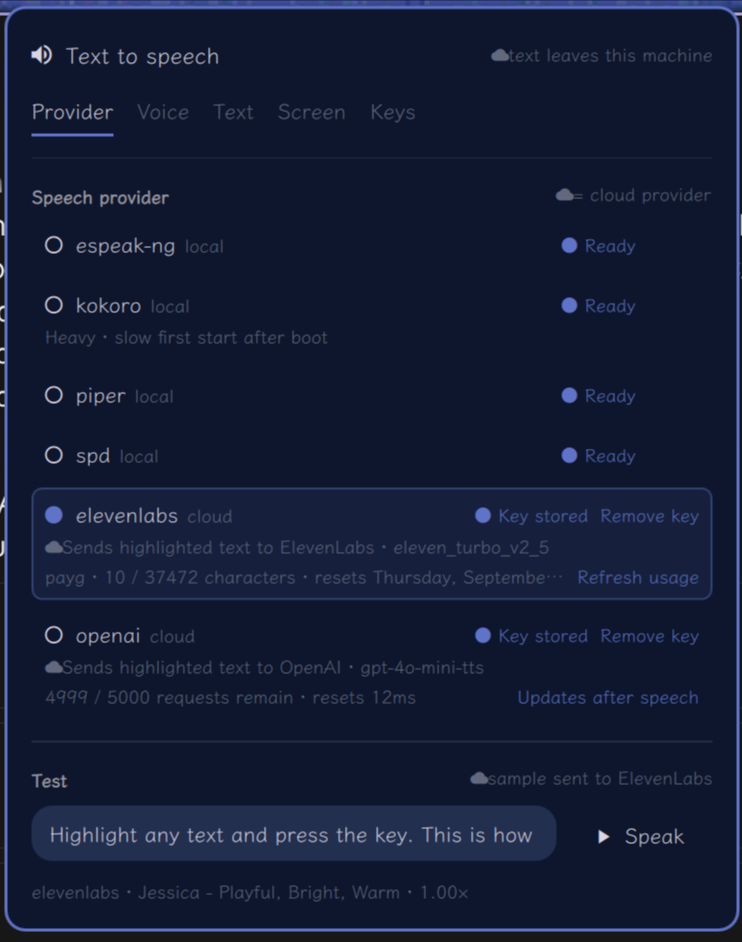
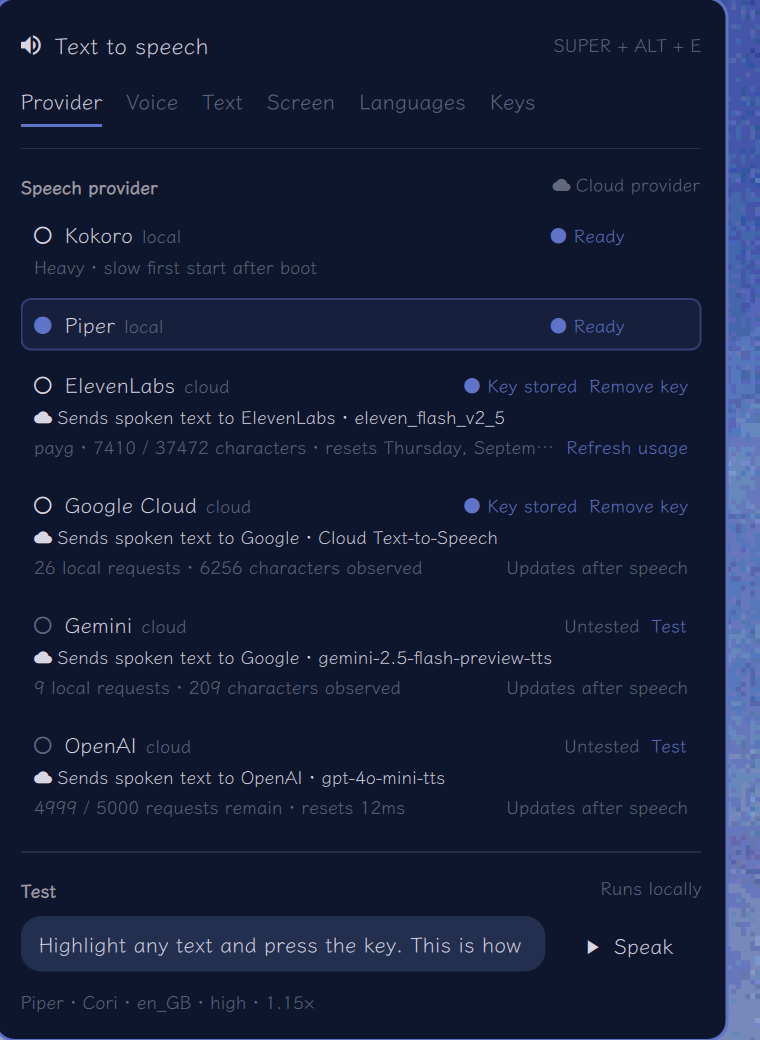
Release prep for 1.3.0: README accuracy, fresh screenshots, exit-status guard
README now says OCR is local by default rather than local, lists the
language-pack install alongside uv as the other pkexec target, documents
the verify, verify-ocr, refresh-languages and ocr-engine flags, and covers
Google alongside ElevenLabs for voice refreshes. Screenshots are retaken
from the six-tab panel, with a Languages tab shot added and preview.png
updated for the marketplace card.

The controller's exit handlers now ignore a run the controller itself
killed with restart(): a cancelled status probe reported a non-zero exit
and painted "Could not read TTS setup status" over a working install. A
static contract test keeps every handler guarded.

Claude-Session: https://claude.ai/code/session_01YTTjejXPmrYu3BYXWNWKoX

Changed region(s): [[0.0, 0.0, 1.0, 1.0], [0.279, 0.0924, 0.6199, 0.1231], [0.6509, 0.0924, 0.7129, 0.1231]]

diff --git a/components/TtsController.qml b/components/TtsController.qml
@@ -238,7 +238,11 @@ Item {
     id: infoProc; command: [root.speakBin, "--info"]
     stdout: StdioCollector { id: infoStdout; waitForEnd: true }
     stderr: StdioCollector { id: infoStderr; waitForEnd: true }
-    onExited: function(exitCode) {
+    onExited: function(exitCode, exitStatus) {
+      // A run this controller killed with restart() is not a result; the
+      // replacement run reports. Treating the kill as a failure painted
+      // "Could not read TTS setup status" over a working install.
+      if (exitStatus !== 0) return
       var queued = root.infoQueued
       root.infoQueued = false
       if (root.readEpoch !== root.writeEpoch) {
@@ -279,7 +283,11 @@ Item {
     id: verifyProc; command: []
     stdout: StdioCollector { id: verifyStdout; waitForEnd: true }
     stderr: StdioCollector { id: verifyStderr; waitForEnd: true }
-    onExited: function(exitCode) {
+    onExited: function(exitCode, exitStatus) {
+      // A run this controller killed with restart() is not a result; the
+      // replacement run reports. Treating the kill as a failure painted
+      // "Could not read TTS setup status" over a working install.
+      if (exitStatus !== 0) return
       if (exitCode !== 0) root.error = String(verifyStderr.text || verifyStdout.text || "Test failed").trim()
       root.verifying = ""; root.refresh()
     }
@@ -303,7 +311,11 @@ Item {
     id: actionProc; command: []
     stdout: StdioCollector { id: actionStdout; waitForEnd: true }
     stderr: StdioCollector { id: actionStderr; waitForEnd: true }
-    onExited: function(exitCode) {
+    onExited: function(exitCode, exitStatus) {
+      // A run this controller killed with restart() is not a result; the
+      // replacement run reports. Treating the kill as a failure painted
+      // "Could not read TTS setup status" over a working install.
+      if (exitStatus !== 0) return
       var stdout = String(actionStdout.text || "").trim()
       var stderr = String(actionStderr.text || "").trim()
       if (exitCode !== 0) root.error = stderr || stdout || "The TTS action failed."
@@ -326,7 +338,11 @@ Item {
     }
     stdout: StdioCollector { id: previewStdout; waitForEnd: true }
     stderr: StdioCollector { id: previewStderr; waitForEnd: true }
-    onExited: function(exitCode) {
+    onExited: function(exitCode, exitStatus) {
+      // A run this controller killed with restart() is not a result; the
+      // replacement run reports. Treating the kill as a failure painted
+      // "Could not read TTS setup status" over a working install.
+      if (exitStatus !== 0) return
       if (!root.previewQueued) {
         if (exitCode === 0) root.preview = String(previewStdout.text || "").trim()
         else if (exitCode === 1) root.preview = ""
@@ -342,7 +358,11 @@ Item {
     id: catalogueProc; command: [root.voiceBin, "available", "--json"]
     stdout: StdioCollector { id: catalogueStdout; waitForEnd: true }
     stderr: StdioCollector { id: catalogueStderr; waitForEnd: true }
-    onExited: function(exitCode) {
+    onExited: function(exitCode, exitStatus) {
+      // A run this controller killed with restart() is not a result; the
+      // replacement run reports. Treating the kill as a failure painted
+      // "Could not read TTS setup status" over a working install.
+      if (exitStatus !== 0) return
       if (root.catalogueQueued) {
         root.catalogueQueued = false
         Qt.callLater(root.loadCatalogue)
@@ -361,7 +381,11 @@ Item {
     id: downloadStatusProc; command: [root.voiceBin, "status"]
     stdout: StdioCollector { id: downloadStatusStdout; waitForEnd: true }
     stderr: StdioCollector { id: downloadStatusStderr; waitForEnd: true }
-    onExited: function(exitCode) {
+    onExited: function(exitCode, exitStatus) {
+      // A run this controller killed with restart() is not a result; the
+      // replacement run reports. Treating the kill as a failure painted
+      // "Could not read TTS setup status" over a working install.
+      if (exitStatus !== 0) return
       var result = null
       try { result = JSON.parse(String(downloadStatusStdout.text || "")) } catch (e) {}
       if (exitCode !== 0 || !result || typeof result.status !== "string") {
@@ -390,7 +414,11 @@ Item {
     id: downloadStartProc; command: []
     stdout: StdioCollector { id: downloadStartStdout; waitForEnd: true }
     stderr: StdioCollector { id: downloadStartStderr; waitForEnd: true }
-    onExited: function(exitCode) {
+    onExited: function(exitCode, exitStatus) {
+      // A run this controller killed with restart() is not a result; the
+      // replacement run reports. Treating the kill as a failure painted
+      // "Could not read TTS setup status" over a working install.
+      if (exitStatus !== 0) return
       root.downloadStarting = false
       var stdout = String(downloadStartStdout.text || "").trim()
       var stderr = String(downloadStartStderr.text || "").trim()
@@ -415,7 +443,11 @@ Item {
     id: bindingsProc; command: [root.bindingsBin, "status"]
     stdout: StdioCollector { id: bindingsStdout; waitForEnd: true }
     stderr: StdioCollector { id: bindingsStderr; waitForEnd: true }
-    onExited: function(exitCode) {
+    onExited: function(exitCode, exitStatus) {
+      // A run this controller killed with restart() is not a result; the
+      // replacement run reports. Treating the kill as a failure painted
+      // "Could not read TTS setup status" over a working install.
+      if (exitStatus !== 0) return
       try {
         if (exitCode !== 0) throw new Error("shortcut status failed")
         root.bindings = JSON.parse(String(bindingsStdout.text || ""))
@@ -429,7 +461,11 @@ Item {
     id: setupStatusProc; command: [root.setupBin, "status"]
     stdout: StdioCollector { id: setupStatusStdout; waitForEnd: true }
     stderr: StdioCollector { id: setupStatusStderr; waitForEnd: true }
-    onExited: function(exitCode) {
+    onExited: function(exitCode, exitStatus) {
+      // A run this controller killed with restart() is not a result; the
+      // replacement run reports. Treating the kill as a failure painted
+      // "Could not read TTS setup status" over a working install.
+      if (exitStatus !== 0) return
       var result = null
       try { result = JSON.parse(String(setupStatusStdout.text || "")) } catch (e) {}
       if (exitCode === 0 && result && result.ok === true) {
@@ -445,7 +481,11 @@ Item {
     id: setupStartProc; command: []
     stdout: StdioCollector { id: setupStartStdout; waitForEnd: true }
     stderr: StdioCollector { id: setupStartStderr; waitForEnd: true }
-    onExited: function(exitCode) {
+    onExited: function(exitCode, exitStatus) {
+      // A run this controller killed with restart() is not a result; the
+      // replacement run reports. Treating the kill as a failure painted
+      // "Could not read TTS setup status" over a working install.
+      if (exitStatus !== 0) return
       root.setupStarting = false
       var result = null
       try { result = JSON.parse(String(setupStartStdout.text || "")) } catch (e) {}
@@ -470,7 +510,11 @@ Item {
     id: setupJobProc; command: [root.setupBin, "job"]
     stdout: StdioCollector { id: setupJobStdout; waitForEnd: true }
     stderr: StdioCollector { id: setupJobStderr; waitForEnd: true }
-    onExited: function(exitCode) {
+    onExited: function(exitCode, exitStatus) {
+      // A run this controller killed with restart() is not a result; the
+      // replacement run reports. Treating the kill as a failure painted
+      // "Could not read TTS setup status" over a working install.
+      if (exitStatus !== 0) return
       var result = null
       try { result = JSON.parse(String(setupJobStdout.text || "")) } catch (e) {}
       if (exitCode !== 0 || !result || typeof result.status !== "string") {
@@ -495,7 +539,11 @@ Item {
     onStarted: { write(root.pendingKey + "\n"); root.pendingKey = "" }
     stdout: StdioCollector { id: keyStdout; waitForEnd: true }
     stderr: StdioCollector { id: keyStderr; waitForEnd: true }
-    onExited: function(exitCode) {
+    onExited: function(exitCode, exitStatus) {
+      // A run this controller killed with restart() is not a result; the
+      // replacement run reports. Treating the kill as a failure painted
+      // "Could not read TTS setup status" over a working install.
+      if (exitStatus !== 0) return
       var result = null
       try { result = JSON.parse(String(keyStdout.text || "")) } catch (e) {}
       var ok = exitCode === 0 && result && result.ok === true

diff --git a/tests/test_qml_contract.py b/tests/test_qml_contract.py
@@ -1,5 +1,6 @@
 #!/usr/bin/env python3
 """Static contracts for UI races that do not require a running compositor."""
+import re
 from pathlib import Path
 import unittest
 
@@ -126,7 +127,7 @@ class QmlContractTests(unittest.TestCase):
         start = self.controller.index("id: setupStatusProc")
         block = self.controller[start:self.controller.index("id: setupStartProc", start)]
         self.assertIn("id: setupStatusStderr", block)
-        self.assertIn("onExited: function(exitCode)", block)
+        self.assertIn("onExited: function(exitCode, exitStatus)", block)
         self.assertIn("exitCode === 0 && result && result.ok === true", block)
         self.assertNotIn("onStreamFinished", block)
 
@@ -152,7 +153,7 @@ class QmlContractTests(unittest.TestCase):
         start = self.controller.index("id: infoProc")
         block = self.controller[start:self.controller.index("id: speechProc", start)]
         self.assertIn("id: infoStderr", block)
-        self.assertIn("onExited: function(exitCode)", block)
+        self.assertIn("onExited: function(exitCode, exitStatus)", block)
         self.assertNotIn("root.infoQueued = true", block)
 
     def test_cloud_backend_operations_are_not_killed_and_restarted(self):
@@ -176,5 +177,19 @@ class QmlContractTests(unittest.TestCase):
         self.assertIn("textFormat: TextEdit.PlainText", self.panel)
 
 
+
+
+class ProcessExitContractTests(unittest.TestCase):
+    def test_every_controller_exit_handler_ignores_killed_runs(self):
+        """restart() kills an in-flight process; its non-zero exit is not a
+        failure of anything and must not surface as an error."""
+        source = (ROOT / "components" / "TtsController.qml").read_text()
+        handlers = re.findall(r"onExited: function\(([^)]*)\) \{\n((?:.*\n){1,5})", source)
+        self.assertTrue(handlers, "no onExited handlers found")
+        for params, body in handlers:
+            self.assertIn("exitStatus", params)
+            self.assertIn("if (exitStatus !== 0) return", body)
+
+
 if __name__ == "__main__":
-    unittest.main(verbosity=2)
+    unittest.main()

diff --git a/README.md b/README.md
@@ -31,8 +31,8 @@ TTS keeps that interaction consistent even when the source changes:
 | What you indicate | What the plugin does |
 |---|---|
 | Selected or copied text | Reads the text directly |
-| A copied image | Runs local OCR, then reads the result |
-| A dragged region | Captures those pixels, runs local OCR, then reads them |
+| A copied image | Runs OCR (local by default), then reads the result |
+| A dragged region | Captures those pixels, runs OCR, then reads them |
 | The focused window or monitor | Captures it without requiring pointer precision |
 
 This is assistive desktop reading for dyslexia, ADHD, low vision, eye strain,
@@ -60,7 +60,8 @@ The base plugin uses `bash`, `wl-clipboard`, `jq`, `python3`, `flock`
 from its configured Arch repositories.
 
 The guided local-engine setup is always explicit. It may request administrator
-approval through `pkexec` to install `uv`, then uses `uv` to create an isolated
+approval through `pkexec` to install `uv` or a `tesseract-data-*` language
+pack (names are checked against `pacman -Si` first), then uses `uv` to create an isolated
 environment under `~/.local/share/omarchy-tts/`. The release pins its direct
 engine packages to known versions: Piper uses `piper-tts==1.7.0`; Kokoro uses
 `kokoro==0.9.4` and `soundfile==0.14.0` in a supported Python 3.12 environment,
@@ -89,11 +90,16 @@ speak --selection             # speak the highlighted text
 speak --clipboard             # speak clipboard text, or OCR a clipboard image
 speak --snip                  # drag a region, OCR it, speak it
 speak --window                # read the focused window
+speak --screen                # read the focused monitor
+speak --ocr-engine easyocr --snip  # one capture through another engine
 speak --stop                  # stop
 speak --list                  # list providers
 speak --provider kokoro       # override for one run
+speak --verify kokoro         # prove a provider can speak (silent)
+speak --verify-ocr easyocr    # prove an engine can read a known image
 speak --usage elevenlabs      # refresh paid-plan usage (JSON)
-speak --refresh-voices elevenlabs # refresh the account's private voice list
+speak --refresh-voices google # refresh a cloud provider's voice list
+speak --refresh-languages     # re-read which OCR languages are installed
 ```
 
 ## Voices
@@ -148,11 +154,11 @@ a second implementation of it.
 
 | Text | Screen |
 |---|---|
-| ![Live sanitizer preview and text rules](docs/screenshots/text.png) | ![Local OCR confidence and language settings](docs/screenshots/screen.png) |
+| ![Live sanitizer preview and text rules](docs/screenshots/text.png) | ![Recognition engines with privacy notes and the confidence floor](docs/screenshots/screen.png) |
 
-| Keys |
-|---|
-| ![Managed on-demand reading shortcuts](docs/screenshots/keys.png) |
+| Languages | Keys |
+|---|---|
+| ![Recognition languages for the selected engine](docs/screenshots/languages.png) | ![Managed on-demand reading shortcuts](docs/screenshots/keys.png) |
 
 The Languages view is separate from Screen so recognition-engine selection
 and language-pack browsing remain focused tasks.
@@ -282,10 +288,10 @@ OpenAI request and token limits update from response headers; organization-wide
 usage is deliberately not queried with the normal speech key because that API
 requires a separate organization admin key.
 
-ElevenLabs voice names are fetched only when **Refresh cloud voices** is
-pressed (or `speak --refresh-voices elevenlabs` is run). Merely opening the
-panel never contacts a provider. The account-specific list is kept in the
-private cache and refresh output reports only its item count.
+ElevenLabs and Google Cloud voice lists are fetched only when **Refresh cloud
+voices** is pressed (or `speak --refresh-voices <provider>` is run). Merely
+opening the panel never contacts a provider. The account-specific list is kept
+in the private cache and refresh output reports only its item count.
 
 Cloud telemetry and voice metadata are stored mode 0600 under
 `~/.cache/omarchy-tts/`. Telemetry contains counts, timestamps, request IDs,
